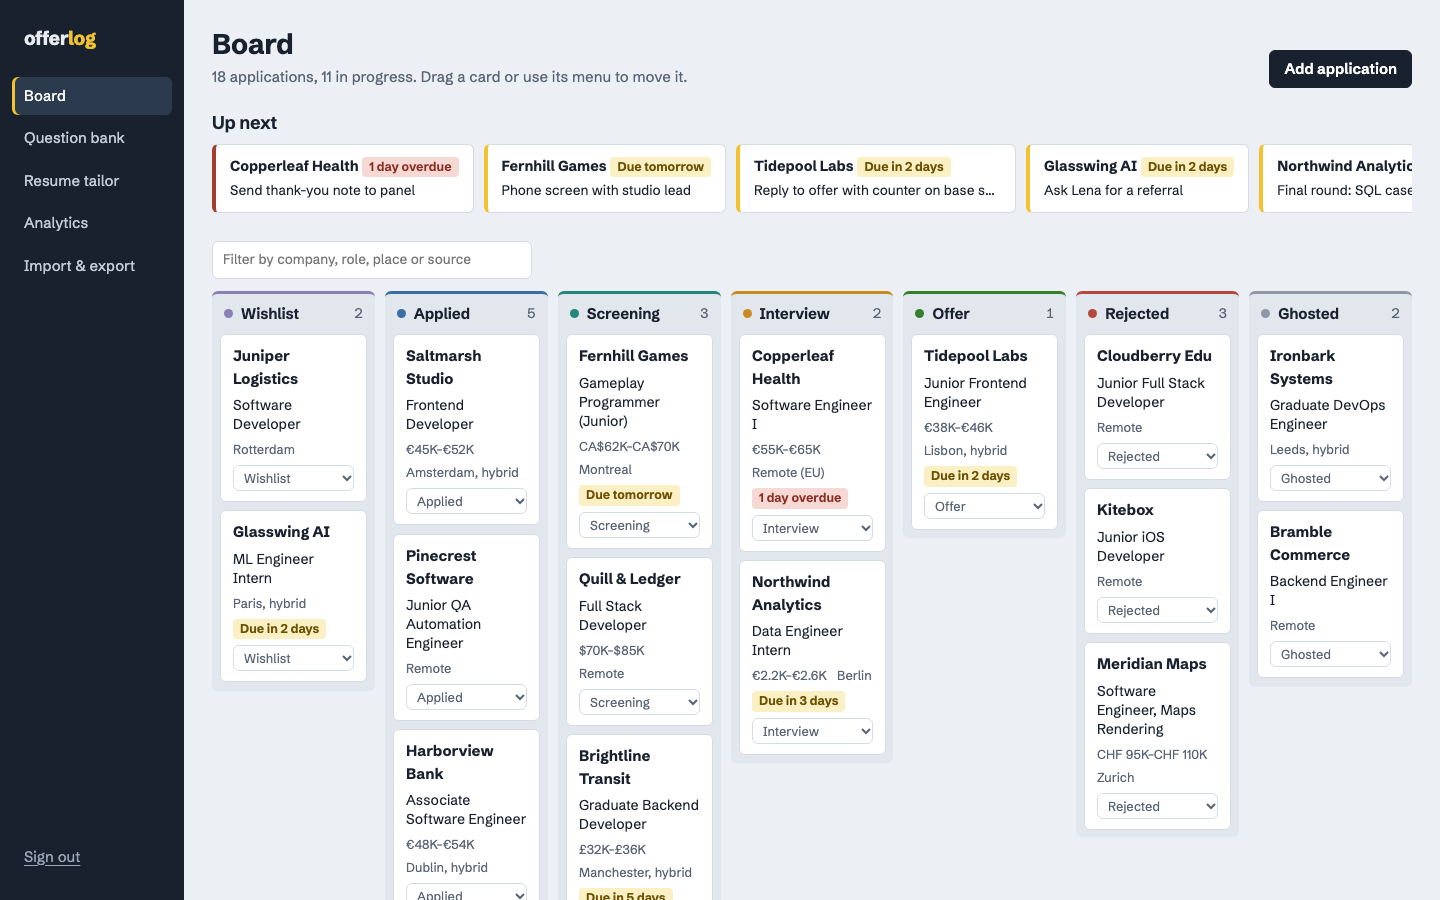
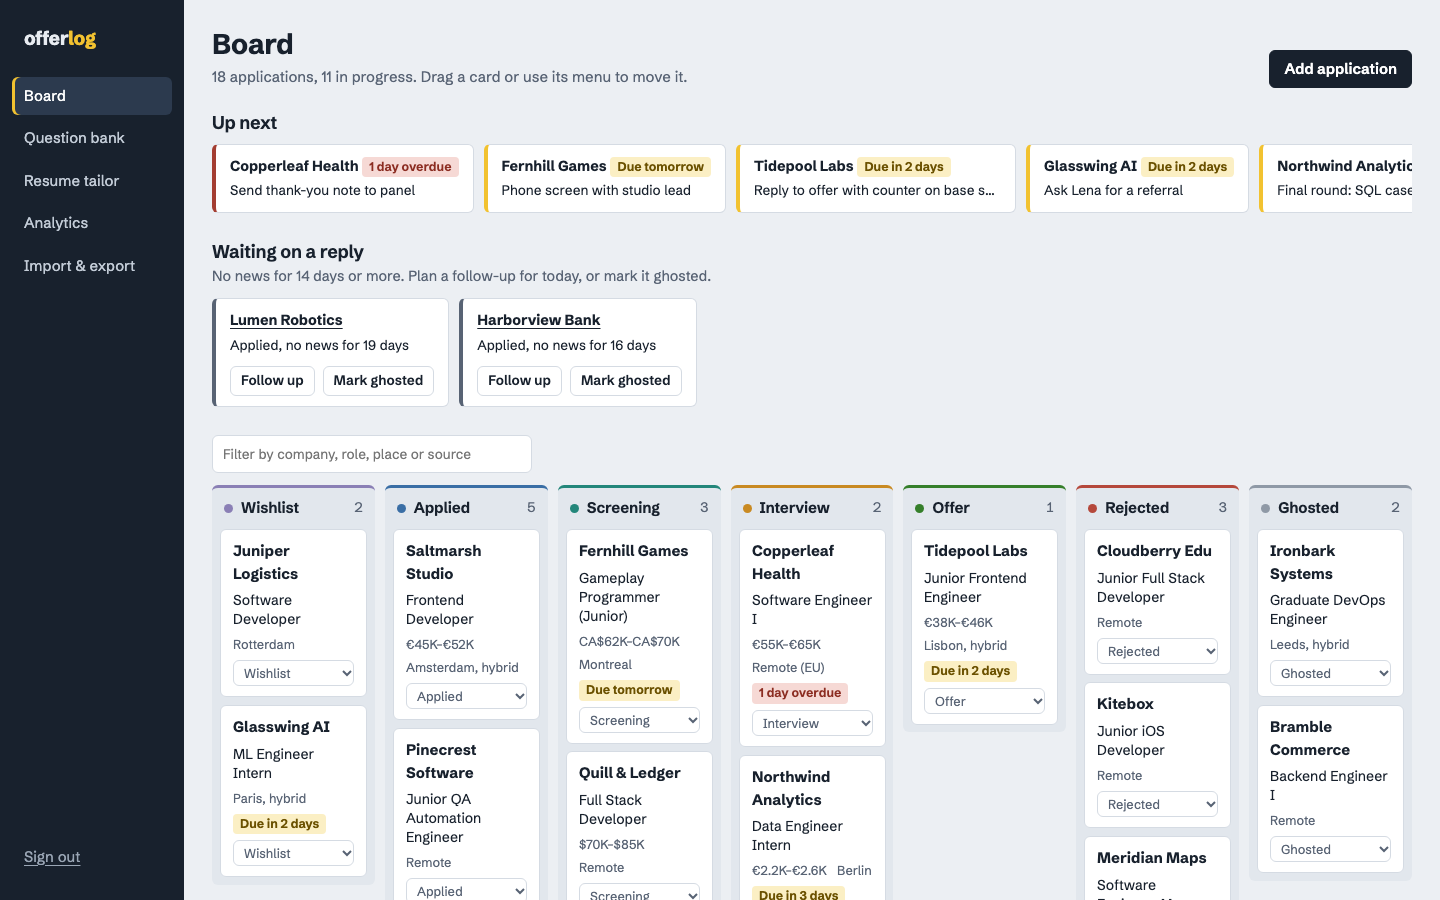
Docs: waiting on a reply in README and CHANGELOG; screenshots from the running app

diff --git a/CHANGELOG.md b/CHANGELOG.md
@@ -4,7 +4,25 @@ All notable changes to this project are documented here. The format follows [Kee
 
 ## [Unreleased]
 
-Latest, second security round. Probed a running `next start` with demo data. A server action POST with a foreign `Origin` is refused (500, no effect). 60 parallel wrong passwords with 60 different `X-Forwarded-For` values got 29 "Wrong password." and 31 "Too many" (the global limit holds under concurrency). Signed-out requests to every page, the `?app=` tailor link, RSC requests, the `.ics` export and the `jobDescription` and `moveApplication` actions return nothing from the database (checked by grepping for demo company names; the database was unchanged). `/_next/image` refuses both the export URL and absolute URLs. Redirects are relative even with a forged `Host` or `X-Forwarded-Host`. The three pinned action SHAs match their tags (checked with `gh api`). No secrets turned up in the full git history. `npm audit` shows nothing for runtime dependencies.
+Latest, feature round: waiting on a reply. Using the demo board as a newcomer, the most common state of a job search, an application sent weeks ago with no answer, got no signal anywhere: Up next only shows steps the user remembered to set, and cards do not show their age, so stale applications sat in Applied until someone scanned every card's timeline.
+
+### Added
+
+- **Waiting on a reply** on the board: applications in applied, screening or interview whose last stage change or timeline note is 14 or more days old, longest silence first (the 8 longest are shown, with the total when there are more). Prep notes do not reset the clock; a note such as "Emailed the recruiter" or **Mark done** on a next step does. Applications with a dated next step are left out, since Up next shows them.
+- **Follow up** sets a next step "Send a follow-up" due today (an existing undated step keeps its text), which moves the application to Up next and into the calendar export. **Mark ghosted** moves it to Ghosted. Both use the failure-safe submit button, so offline they say so instead of replacing the page.
+- `lastActivity` in `src/lib/data.ts` (one grouped query over events and timeline notes) and `waitingOnReply` in `src/lib/followup.ts`, with unit tests for the threshold edge, excluded stages, which notes reset the clock and the dated/undated next step rule. The smoke test imports two old applications by CSV `created_at`, follows up on one, runs the axe scans with the list on the page and marks the other ghosted.
+
+### Changed
+
+- Demo data: Lumen Robotics and Harborview Bank were applied to 19 and 16 days ago (was 7 and 5), so the demo shows the new list. The weekly chart moves accordingly; README screenshots regenerated from the running app.
+
+### Notes for the next agent
+
+- The 14-day threshold is a constant (`FOLLOW_UP_DAYS`, marked `shortcut:`); make it a setting only if users ask. There is no snooze: following up and later pressing **Mark done** restarts the 14 days.
+- Codex review and `/security-review` were not run this round (see earlier notes); the two new actions check the session and validate the id like the others, and the ghosted button reuses the existing `moveApplication` action through `bind`.
+- Still open from earlier rounds: a 2,000-card board has about 28,000 DOM nodes; the AI rewrite is only tested with a mocked client; the social preview needs a manual upload; the base image is not digest-pinned; `docs/demo.gif` does not show this list.
+
+Earlier, second security round. Probed a running `next start` with demo data. A server action POST with a foreign `Origin` is refused (500, no effect). 60 parallel wrong passwords with 60 different `X-Forwarded-For` values got 29 "Wrong password." and 31 "Too many" (the global limit holds under concurrency). Signed-out requests to every page, the `?app=` tailor link, RSC requests, the `.ics` export and the `jobDescription` and `moveApplication` actions return nothing from the database (checked by grepping for demo company names; the database was unchanged). `/_next/image` refuses both the export URL and absolute URLs. Redirects are relative even with a forged `Host` or `X-Forwarded-Host`. The three pinned action SHAs match their tags (checked with `gh api`). No secrets turned up in the full git history. `npm audit` shows nothing for runtime dependencies.
 
 ### Fixed
 

diff --git a/README.md b/README.md
@@ -47,6 +47,7 @@ Behind a reverse proxy, forward the original `Host` (or `X-Forwarded-Host`) and 
 ## Features
 
 - **Board** with seven stages: wishlist, applied, screening, interview, offer, rejected, ghosted. Drag cards between columns, or use the stage menu on each card (works with keyboard and touch), and filter the board by company, role, place or source. An **Up next** strip lists next steps by due date and flags overdue ones.
+- **Waiting on a reply**: applications in applied, screening or interview with no news for 14 days or more (no stage change and no timeline note; prep notes do not count) are listed on the board, longest silence first. **Follow up** gives one a next step due today, so it moves to Up next and the calendar export; **Mark ghosted** moves it to Ghosted. Applications that already have a dated next step are left out. The 14 days are fixed.
 - **Applications** with company, role, posting link, salary range and currency, location and work mode (onsite, hybrid, remote), source, job description, and a next step with a due date.
 - **Timeline** per application: every stage change is recorded automatically, alongside your own dated notes. Marking a next step done logs it to the timeline. Notes can be edited in place and keep their original date.
 - **Correct the history**: analytics are only as good as the dates behind them, so each stage change on the timeline can be moved to the day it really happened (a reply you logged three days late), or removed when it was a mistake (a card dropped in the wrong column, which would otherwise count as an offer in the funnel forever). Removing the latest change moves the application back to its previous stage. When you add an application you were already working on, give the day it reached its stage; in a CSV import, the `created_at` column does the same.
@@ -61,7 +62,7 @@ Behind a reverse proxy, forward the original `Host` (or `X-Forwarded-Host`) and 
 
 | Board | Application detail | Resume tailor |
 | --- | --- | --- |
-| ![The board with up-next reminders and seven stage columns](docs/screenshots/board.png) | ![Application detail with timeline, contacts and prep](docs/screenshots/application.png) | ![Keyword gap report](docs/screenshots/tailor.png) |
+| ![The board with up-next reminders, applications waiting on a reply, and seven stage columns](docs/screenshots/board.png) | ![Application detail with timeline, contacts and prep](docs/screenshots/application.png) | ![Keyword gap report](docs/screenshots/tailor.png) |
 
 | Analytics | Question bank | Import & export |
 | --- | --- | --- |
